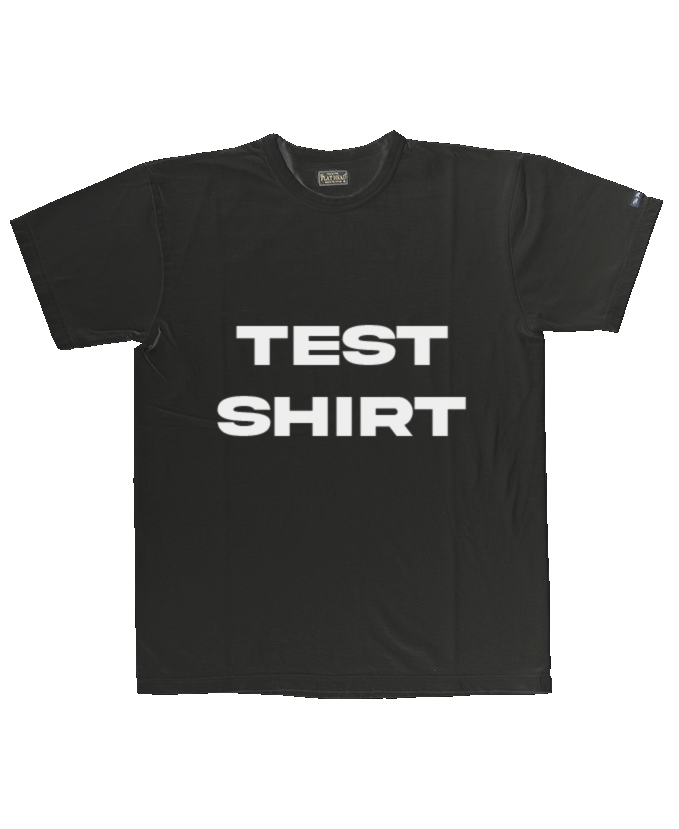
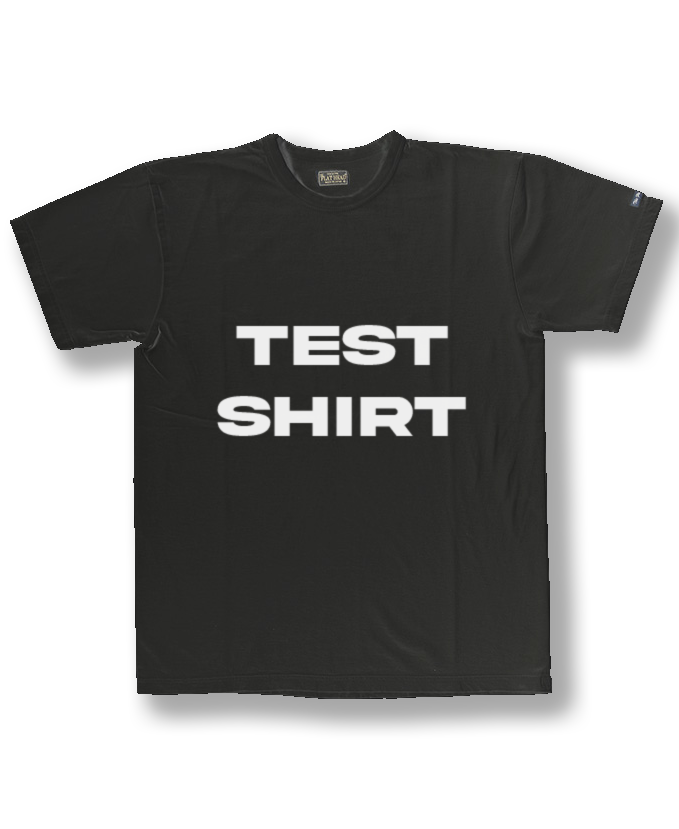
updated shirt image + added routing

diff --git a/frontend/src/App.js b/frontend/src/App.js
@@ -1,33 +1,22 @@
-import data from './data';
+import { BrowserRouter, Link, Route, Routes } from 'react-router-dom';
+import HomeScreen from './screens/HomeScreen';
+import ProductScreen from './screens/ProductScreen';
 
 function App() {
   return (
-    <div>
-      <header>
-        <a href="/">amizona</a>
-      </header>
-      <main>
-        <h1>Featured Products</h1>
-        <div className="products">
-          {data.products.map((product) => (
-            <div className="product" key={product.slug}>
-              <a href={`/product/${product.slug}`}>
-                <img src={product.image} alt={product.name} />
-              </a>
-              <div className="product-info">
-                <a href={`/product/${product.slug}`}>
-                  <p>{product.name}</p>
-                </a>
-                <p>
-                  <strong>${product.price}</strong>
-                </p>
-                <button>Add to cart</button>
-              </div>
-            </div>
-          ))}
-        </div>
-      </main>
-    </div>
+    <BrowserRouter>
+      <div>
+        <header>
+          <Link to="/">xwray</Link>
+        </header>
+        <main>
+          <Routes>
+            <Route path="/product/:slug" element={<ProductScreen />} />
+            <Route path="/" element={<HomeScreen />} />
+          </Routes>
+        </main>
+      </div>
+    </BrowserRouter>
   );
 }
 

diff --git a/frontend/src/screens/HomeScreen.js b/frontend/src/screens/HomeScreen.js
@@ -1,0 +1,29 @@
+import { Link } from 'react-router-dom';
+import data from '../data';
+
+function HomeScreen() {
+  return (
+    <div>
+      <h1>Featured Products</h1>
+      <div className="products">
+        {data.products.map((product) => (
+          <div className="product" key={product.slug}>
+            <Link to={`/product/${product.slug}`}>
+              <img src={product.image} alt={product.name} />
+            </Link>
+            <div className="product-info">
+              <Link to={`/product/${product.slug}`}>
+                <p>{product.name}</p>
+              </Link>
+              <p>
+                <strong>${product.price}</strong>
+              </p>
+              <button>Add to cart</button>
+            </div>
+          </div>
+        ))}
+      </div>
+    </div>
+  );
+}
+export default HomeScreen;

diff --git a/frontend/src/screens/ProductScreen.js b/frontend/src/screens/ProductScreen.js
@@ -1,0 +1,12 @@
+import { useParams } from 'react-router-dom';
+
+function ProductScreen() {
+  const params = useParams();
+  const { slug } = params;
+  return (
+    <div>
+      <h1>{slug}</h1>
+    </div>
+  );
+}
+export default ProductScreen;
